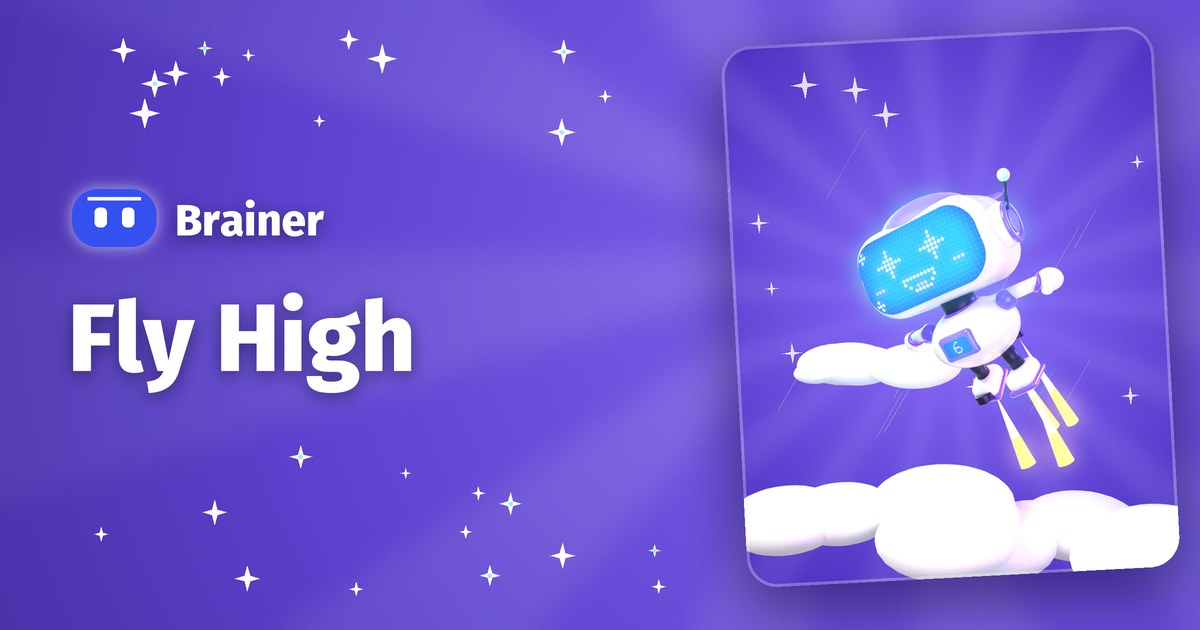
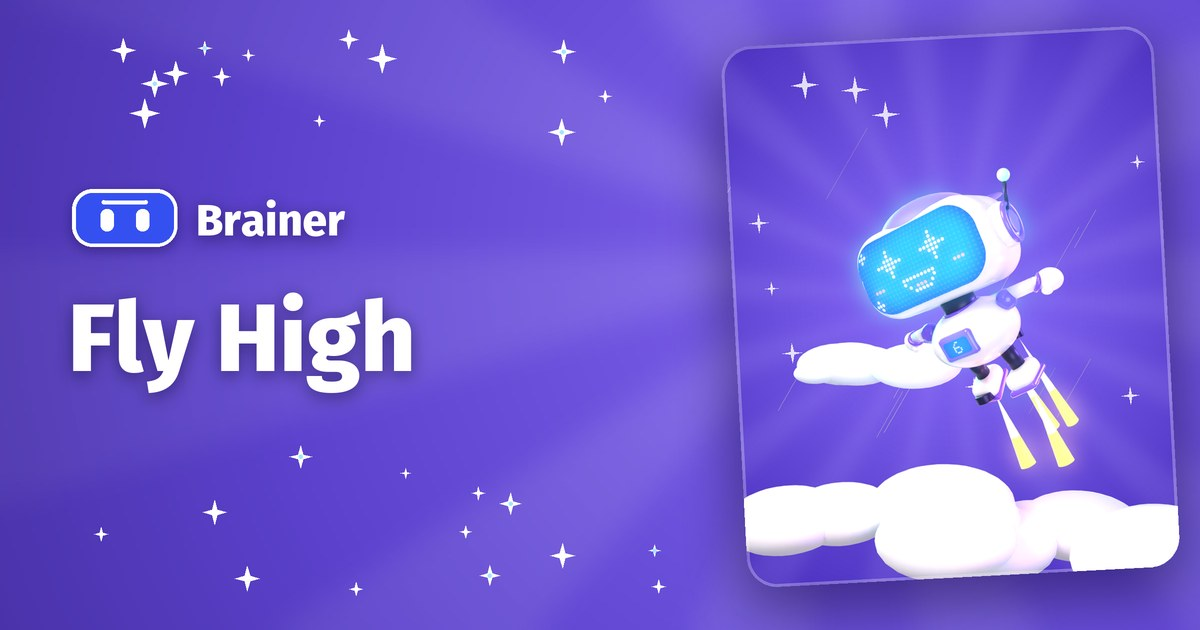
Visor B: the robot's own screen with a white rim
Tornike picked the final visor (2026-10-27): the robot's screen shape, 80x44 with corners
rx 15.5, screen blue #3550F0 inside a white rim 3 wide, the line above the eyes the same
weight and always white, eyes 10x17.
- visor.svg is the master with the rim; visor-small.svg (no rim) is for under 48 px.
- favicon.svg and favicon.png are the small version centred in a square.
- The inline logo in site.js (header, footer, menu) draws version B, with classes for the
  file's ids so they don't repeat; it lights up and blinks open as before.
- The six share images are redrawn with it.

Changed region(s): [[0.0308, 0.2714, 0.3083, 0.4222]]

diff --git a/Website/assets/js/site.js b/Website/assets/js/site.js
@@ -170,9 +170,10 @@ const NAV = [
   { key: 'contact', href: 'contact.html', label: 'Contact' }
 ];
 const cur = key => (key === page ? ' aria-current="page"' : '');
-// The logo is the Brainer's visor (assets/brainer/logo/visor.svg) and the name in FiraGO. It is drawn inline so the screen
-// can light up and the eyes blink open when a page loads. The screen is the palette's screen blue, #3550F0.
-const visor = () => `<svg class="visor" viewBox="0 0 64 44" aria-hidden="true"><rect class="off" width="64" height="44" rx="19"/><rect class="screen" width="64" height="44" rx="19" fill="#3550F0"/><path class="gloss" d="M12 7.5h40" stroke="#fff" stroke-width="2.6" stroke-linecap="round"/><rect class="eye" x="17" y="14" width="9" height="15" rx="3.6" fill="#fff"/><rect class="eye" x="38" y="14" width="9" height="15" rx="3.6" fill="#fff"/></svg>`;
+// The logo is the Brainer's visor, version B (assets/brainer/logo/visor.svg, Tornike's pick, 2026-10-27): the robot's own
+// screen, 80 by 44, in screen blue inside a white rim, with the line and the rim one weight. It is drawn inline so the
+// screen can light up and the eyes blink open when a page loads; classes stand in for the file's ids, which would repeat.
+const visor = () => `<svg class="visor" viewBox="0 0 80 44" aria-hidden="true"><rect class="rim" width="80" height="44" rx="15.5" fill="#fff"/><rect class="off" x="3" y="3" width="74" height="38" rx="12.5"/><rect class="screen" x="3" y="3" width="74" height="38" rx="12.5" fill="#3550F0"/><path class="gloss" d="M24 10H56" stroke="#fff" stroke-width="3" stroke-linecap="round"/><rect class="eye" x="21.6" y="15" width="10" height="17" rx="4.6" fill="#fff"/><rect class="eye" x="48.4" y="15" width="10" height="17" rx="4.6" fill="#fff"/></svg>`;
 const logo = () => `<a class="logo" href="index.html" aria-label="${esc(SITE.brand)} home">${visor()}<span class="word">Brainer</span></a>`;
 
 const header = $('#site-header');

diff --git a/Website/tools/share-images.py b/Website/tools/share-images.py
@@ -92,20 +92,20 @@ def paste_with_shadow(base, card, x, y):
 
 
 def visor(h):
-    """The site's visor logo (assets/brainer/logo/visor.svg, 64x44, screen blue #3550F0), drawn at height h."""
-    s = h / 44; w = round(64 * s)
-    g = Image.new('RGBA', (w, h), hexrgb('#3550F0') + (255,))   # the palette's screen blue, flat
-    m = Image.new('L', (w, h), 0); ImageDraw.Draw(m).rounded_rectangle([0, 0, w - 1, h - 1], 19 * s, fill=255)
-    out = Image.new('RGBA', (w, h), (0, 0, 0, 0)); out.paste(g, (0, 0), m)
-    d = ImageDraw.Draw(out)
-    d.line([(12 * s, 7.5 * s), (52 * s, 7.5 * s)], fill=(255, 255, 255, 255), width=round(2.6 * s))   # the line above the eyes: solid white, always
-    for x0 in (17, 38): d.rounded_rectangle([x0 * s, 14 * s, (x0 + 9) * s, 29 * s], 3.6 * s, fill=(255, 255, 255, 255))
-    # a soft white halo so the blue visor stands off the violet
-    halo = Image.new('RGBA', (w + 60, h + 60), (0, 0, 0, 0))
-    hm = Image.new('L', halo.size, 0); ImageDraw.Draw(hm).rounded_rectangle([30, 30, 30 + w, 30 + h], 19 * s, fill=150)
-    halo.paste((255, 255, 255, 255), (0, 0), hm.filter(ImageFilter.GaussianBlur(14)))
-    halo.alpha_composite(out, (30, 30))
-    return halo
+    """The visor logo, version B (assets/brainer/logo/visor.svg, 80x44): screen blue #3550F0 inside a white rim, the
+    line and the rim one weight, drawn at height h, with 30 px of room around it for a soft shadow."""
+    s = h / 44; w = round(80 * s)
+    out = Image.new('RGBA', (w, h), (0, 0, 0, 0)); d = ImageDraw.Draw(out)
+    d.rounded_rectangle([0, 0, w - 1, h - 1], 15.5 * s, fill=(255, 255, 255, 255))                            # rim
+    d.rounded_rectangle([3 * s, 3 * s, 77 * s, 41 * s], 12.5 * s, fill=hexrgb('#3550F0') + (255,))              # screen
+    d.line([(24 * s, 10 * s), (56 * s, 10 * s)], fill=(255, 255, 255, 255), width=round(3 * s))               # line
+    for x in (24, 56): d.ellipse([(x - 1.5) * s, 8.5 * s, (x + 1.5) * s, 11.5 * s], fill=(255, 255, 255, 255))   # its round caps
+    for x0 in (21.6, 48.4): d.rounded_rectangle([x0 * s, 15 * s, (x0 + 10) * s, 32 * s], 4.6 * s, fill=(255, 255, 255, 255))
+    shadow = Image.new('RGBA', (w + 60, h + 60), (0, 0, 0, 0))
+    sm = Image.new('L', shadow.size, 0); ImageDraw.Draw(sm).rounded_rectangle([30, 36, 30 + w, 36 + h], 15.5 * s, fill=110)
+    shadow.paste((20, 8, 70, 255), (0, 0), sm.filter(ImageFilter.GaussianBlur(12)))
+    shadow.alpha_composite(out, (30, 30))
+    return shadow
 
 
 def text(base, xy, s, size, weight, fill=(255, 255, 255, 255), shadow=True):

diff --git a/Website/README.md b/Website/README.md
@@ -30,7 +30,7 @@ Header, footer, menu drawer and the 18+ check are drawn by `assets/js/site.js` o
 
 ## Brand assets
 
-`assets/fonts/firago/` holds FiraGO Regular, Bold and ExtraBold (see Typeface below). `assets/brainer/logo/` holds the visor: `visor.svg`, the tab icon `favicon.svg` and `favicon.png` (192×192, for browsers without SVG icons). The brand book's B is retired everywhere (Tornike, 2026-10-27), and its PNGs are gone. `assets/brainer/robots/1.webp` to `10.webp` are the ten stage stills, Baby to Master, one per ten brain levels: the game team's renders of the 3D Brainer (`Brainer 3D/renders/stages/`), re-rendered on 2026-10-27 at 800×800 with a transparent background and no shadow haze, about 37 to 64 KB each. They replaced the brand book's flat robots on 2026-10-25.
+`assets/fonts/firago/` holds FiraGO Regular, Bold and ExtraBold (see Typeface below). `assets/brainer/logo/` holds the visor, version B (Tornike's pick, 2026-10-27; masters in Marketing kit/logo): `visor.svg` (80×44, with the white rim, from 48 px wide up), `visor-small.svg` (no rim, for anything smaller), and the tab icons `favicon.svg` and `favicon.png` (192×192, for browsers without SVG icons), both the small version centred in a square. The brand book's B is retired everywhere (Tornike, 2026-10-27), and its PNGs are gone. `assets/brainer/robots/1.webp` to `10.webp` are the ten stage stills, Baby to Master, one per ten brain levels: the game team's renders of the 3D Brainer (`Brainer 3D/renders/stages/`), re-rendered on 2026-10-27 at 800×800 with a transparent background and no shadow haze, about 37 to 64 KB each. They replaced the brand book's flat robots on 2026-10-25.
 
 ## Link previews
 
@@ -66,4 +66,4 @@ python -m fontTools.subset FiraGO-Medium.woff2 --unicodes="U+0000-00FF,U+0100-01
 - FogRush is hidden from the site and the deploy (`hidden: true` in its `data.js` entry, filtered out at the end of the file); its entry and code stay, so setting it back to `false` (and restoring its copy step in the Pages workflow) brings it back.
 - Every page is `noindex` until launch.
 
-Logo (Tornike's pick, 2026-10-27): the Brainer's visor, `assets/brainer/logo/visor.svg`, its screen flat screen blue `#3550F0` (core palette, same day) with the line above the eyes always solid white (Tornike: it shouldn't change colour), and the name set in FiraGO ExtraBold. `site.js` draws it inline so its screen lights up and the eyes blink open on load; `favicon.svg` and `favicon.png` are the same mark for the tab. The B is retired.
+Logo (Tornike's pick, 2026-10-27): the Brainer's visor, version B: the robot's own screen, 80×44 with corners rx 15.5, screen blue `#3550F0` inside a white rim 3 wide (screen at 3,3, 74×38, rx 12.5), the line above the eyes `M24 10H56` always solid white and the same weight as the rim, eyes 10×17 at x 21.6 and 48.4. Under 48 px wide, `visor-small.svg` without the rim. The name beside it is "Brainer" in FiraGO ExtraBold. `site.js` draws it inline so its screen lights up and the eyes blink open on load (classes `rim`, `off`, `screen`, `gloss`, `eye` stand in for the file's ids, which would repeat on a page); `tools/share-images.py` draws the same shape. The B is retired.
